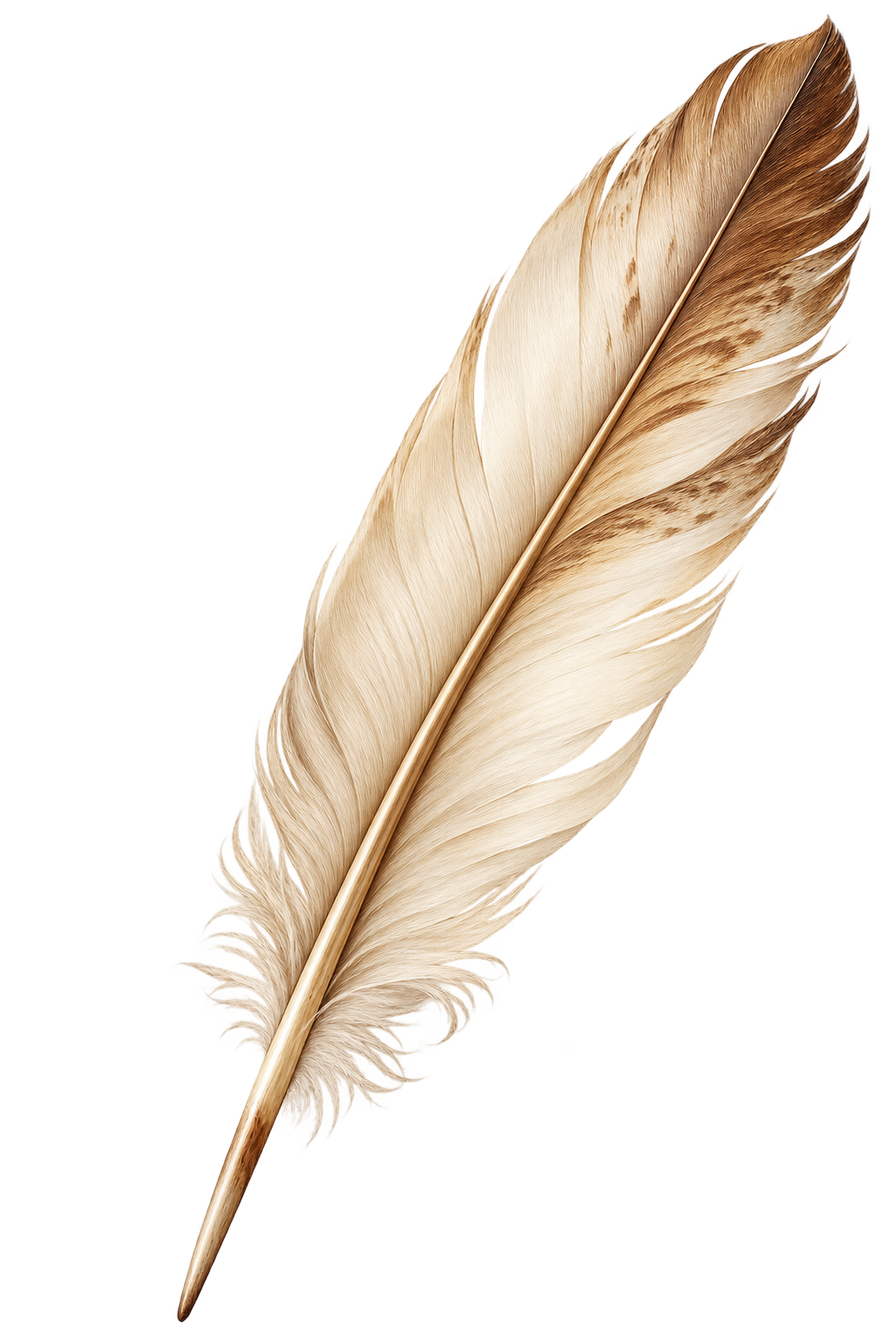
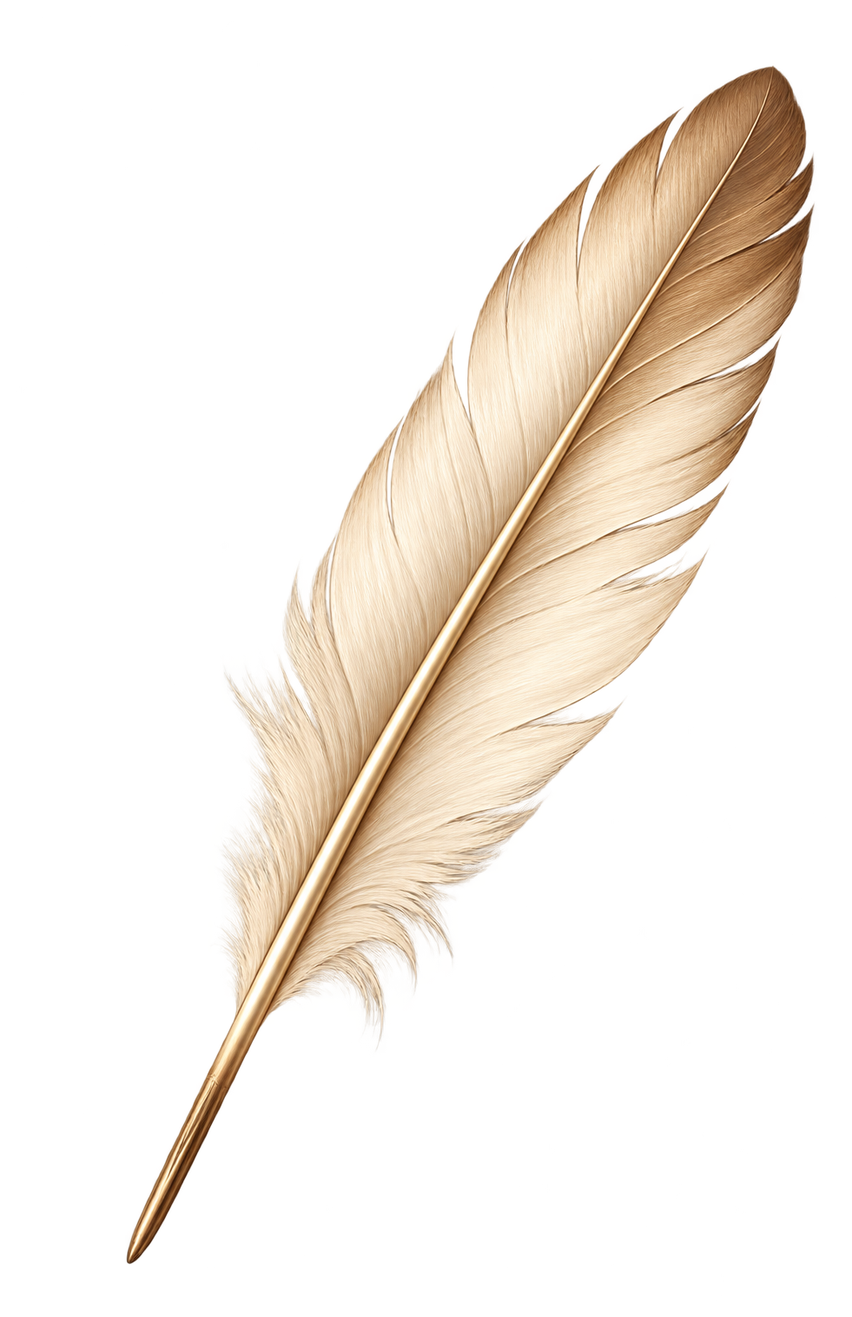
refine(reader): polish letter artwork and preserve close focus

Changed region(s): [[0.1529, 0.0, 0.9786, 0.9914]]

diff --git a/src/components/reader/letter.css b/src/components/reader/letter.css
@@ -1,4 +1,4 @@
-/* B-inspired prototype parameters. Size, typography, dimming, timing and directory
+/* User-supplied refinement assets; prototype parameters. Typography, dimming, timing and directory
    placement remain subject to product review; they are not new PRD constraints. */
 .scene-page--reading .scene-header,
 .scene-page--reading .scene-nav,
@@ -18,55 +18,60 @@
 .letter-dialog[open] { display: grid; place-items: center; }
 .letter-dialog::backdrop { background: rgb(3 9 17 / .6); animation: letter-dim var(--letter-open-duration) ease both; }
 .letter-dialog[data-phase="closing"]::backdrop { animation: letter-undim var(--letter-close-duration) ease both; }
-.letter-sheet { position: relative; width: min(680px, 78vw); height: min(900px, 86dvh); filter: drop-shadow(0 18px 34px #0009); }
-.letter-sheet::before { content: ""; position: absolute; inset: 48px; background: #f3dfbc; pointer-events: none; }
+.letter-sheet { position: relative; width: min(640px, 78vw); height: min(928px, 90dvh); filter: drop-shadow(0 18px 34px #0009); }
+.letter-sheet::before { content: ""; position: absolute; inset: 80px; background: #efdab4; pointer-events: none; }
 .letter-paper {
   position: absolute; inset: 0; user-select: none; pointer-events: none;
-  /* Nine-slice edges retain a narrow worn perimeter. The bounded paper adapts
-     only to the viewport; article length never changes its dimensions. */
-  border: 32px solid transparent;
-  border-image: url("/letter/aged-paper-v2.webp") 70 60 fill / 32px / 0 stretch;
+  /* 980×1447 source. Preserve the layered corners and use the same source fill
+     to avoid seams. Only the viewport changes this bounded frame, never prose. */
+  border: 100px solid transparent;
+  border-image: url("/letter/parchment.webp") 180 100 140 120 fill / 112px 62px 87px 75px / 0 stretch;
 }
-.letter-feather { position: absolute; top: 45px; right: -64px; width: 150px; height: 225px; object-fit: contain; pointer-events: none; user-select: none; z-index: 2; filter: sepia(.15); }
-.letter-close { position: absolute; z-index: 3; top: 17px; right: 19px; display: grid; place-items: center; width: 44px; height: 44px; padding: 0; border: none; background: none; color: #573b26; font: 32px/1 Georgia, serif; cursor: pointer; border-radius: 50%; }
+.letter-feather, .letter-postmark { position: absolute; object-fit: contain; pointer-events: none; user-select: none; z-index: 2; }
+.letter-feather { top: 58px; right: -76px; width: 154px; height: 238px; filter: drop-shadow(2px 4px 3px #50341f30); }
+/* Keep the visible ink beyond the text AND scrollbar when content scrolls. */
+.letter-postmark { top: 44px; right: 0; width: 108px; height: 108px; opacity: .83; }
+.letter-close { position: absolute; z-index: 3; top: 20px; right: 23px; display: grid; place-items: center; width: 44px; height: 44px; padding: 0; border: none; background: none; color: #573b26; font: 32px/1 Georgia, serif; cursor: pointer; border-radius: 50%; }
 .letter-close:hover { background: #895d2a18; }
 .letter-dialog button:focus-visible, .letter-dialog textarea:focus-visible, .letter-scroll:focus-visible { outline: 2px solid #7c4927; outline-offset: 3px; }
-.letter-scroll { position: absolute; inset: 52px 45px 34px 48px; overflow-y: auto; overflow-x: hidden; overscroll-behavior: contain; scrollbar-gutter: stable; scrollbar-width: thin; scrollbar-color: #99744070 transparent; padding: 0 16px 15px; }
-.letter-heading { margin-bottom: 25px; }
-.letter-demo-note { margin: 0 0 12px; color: #765638; font-family: "Microsoft YaHei", "PingFang SC", sans-serif; font-size: 10px; letter-spacing: .12em; }
-.letter-heading h2 { font-family: "STKaiti", "KaiTi", "Kaiti SC", "Songti SC", SimSun, serif; font-weight: 500; font-size: clamp(26px, 2.2vw, 34px); line-height: 1.5; letter-spacing: .09em; margin: 0 0 15px; padding-right: 15px; color: #3c281b; }
-.letter-meta { display: flex; flex-wrap: wrap; align-items: center; gap: 6px 20px; padding-top: 13px; border-top: 1px solid #8f602951; margin: 0; font-size: 11px; color: #795638; line-height: 1.7; }
-.letter-prose { font-size: 17px; line-height: 1.95; letter-spacing: .03em; overflow-wrap: anywhere; display: flow-root; }
-.letter-prose blockquote { position: relative; color: #855732; margin: 0 0 24px; padding: 0 13px 0 24px; font-family: "STKaiti", "KaiTi", "Kaiti SC", serif; font-size: 20px; line-height: 1.8; }
+.letter-scroll { position: absolute; inset: 58px 94px 42px 58px; overflow-y: auto; overflow-x: hidden; overscroll-behavior: contain; scrollbar-gutter: stable; scrollbar-width: thin; scrollbar-color: #99744070 transparent; padding: 0 12px 16px 8px; }
+.letter-heading { margin-bottom: 19px; }
+.letter-demo-note { margin: 7px 0 0; color: #856440; font-family: "Microsoft YaHei", "PingFang SC", sans-serif; font-size: 10px; letter-spacing: .05em; }
+.letter-heading h2 { font-family: "STKaiti", "KaiTi", "Kaiti SC", "Songti SC", SimSun, serif; font-weight: 500; font-size: clamp(27px, 2.2vw, 33px); line-height: 1.45; letter-spacing: .08em; margin: 0 0 10px; color: #3c281b; }
+.letter-meta { display: flex; flex-wrap: wrap; align-items: center; gap: 4px 18px; padding-top: 10px; border-top: 1px solid #8f602951; margin: 0; font-size: 11px; color: #795638; line-height: 1.7; }
+.letter-prose { font-size: 16px; line-height: 1.9; letter-spacing: .025em; overflow-wrap: anywhere; display: flow-root; }
+.letter-prose blockquote { position: relative; color: #855732; margin: 0 0 20px; padding: 0 4px 0 20px; font-family: "STKaiti", "KaiTi", "Kaiti SC", serif; font-size: 19px; line-height: 1.75; }
 .letter-prose blockquote::before { content: "“"; position: absolute; left: 0; top: -7px; color: #a3784d; font: 36px Georgia, serif; }
-.letter-prose p { margin: 0 0 16px; }
-.letter-photo { position: relative; float: left; width: 49%; margin: 12px 24px 18px 0; padding: 8px 8px 6px; background: #f1d9b3; border: 1px solid #b38b5666; box-shadow: 1px 3px 5px #54321c40; transform: rotate(-2deg); }
+.letter-prose p { margin: 0 0 12px; }
+.letter-photo { position: relative; float: left; width: 48%; margin: 6px 22px 14px 3px; padding: 7px 7px 6px; background: #f4e2c2; border: 1px solid #b38b5666; box-shadow: 1px 3px 5px #54321c40; transform: rotate(-2deg); }
 .letter-photo::before { content: ""; position: absolute; z-index: 1; left: -12px; top: -6px; width: 52px; height: 20px; transform: rotate(-30deg); background: #c7a16b66; }
 .letter-photo img { display: block; width: 100%; height: auto; aspect-ratio: 3 / 2; object-fit: cover; }
 .letter-photo figcaption { padding-top: 6px; font-family: "Microsoft YaHei", "PingFang SC", sans-serif; font-size: 9px; line-height: 1.6; letter-spacing: 0; color: #795b3f; }
 .letter-image-fallback { min-height: 120px; display: grid; place-items: center; padding: 12px; font-size: 13px; line-height: 1.7; background: #d8bc90; }
-.letter-prose .letter-signature { clear: both; padding-top: 16px; text-align: right; color: #89603b; font-family: "STKaiti", "KaiTi", "Kaiti SC", serif; font-size: 18px; }
-.letter-divider { display: flex; align-items: center; gap: 14px; color: #9b6e42; font-size: 12px; margin: 22px 0 14px; }
-.letter-divider::before, .letter-divider::after { content: ""; height: 1px; background: #a9814f5c; flex: 1; }
-.letter-reactions { display: flex; align-items: center; flex-wrap: wrap; gap: 10px 15px; margin-bottom: 27px; }
+.letter-prose .letter-signature { clear: both; padding: 17px 37px 0 0; text-align: right; color: #89603b; font-family: "STKaiti", "KaiTi", "Kaiti SC", serif; font-size: 17px; background: url("/letter/leaf-sprig.webp") right center / 28px auto no-repeat; }
+.letter-divider { height: 24px; margin: 15px 0 6px; background: url("/letter/divider-heart.webp") center / 100% 100% no-repeat; opacity: .8; }
+.letter-reactions { display: flex; align-items: center; flex-wrap: wrap; gap: 2px 14px; margin-bottom: 19px; }
 .letter-like { display: flex; align-items: center; gap: 9px; min-height: 44px; padding: 0 8px 0 0; border: 0; background: none; color: #713e2a; font: 13px "Microsoft YaHei", "PingFang SC", sans-serif; cursor: pointer; }
 .letter-like > span:first-child { font: 27px Georgia, serif; }
 .letter-like[aria-pressed="true"] { color: #9e362c; }
-.letter-reactions > span { color: #886a4b; font: 10px/1.6 "Microsoft YaHei", "PingFang SC", sans-serif; }
-.letter-comments h3 { margin: 0 0 10px; font: 500 24px/1.4 "STKaiti", "KaiTi", "Kaiti SC", SimSun, serif; letter-spacing: .15em; }
+.letter-reactions > span { color: #886a4b; font: 11px/1.6 "Microsoft YaHei", "PingFang SC", sans-serif; }
+.letter-comment-count { padding-left: 14px; border-left: 1px solid #a9814f5c; }
+.letter-reactions .letter-reaction-note { margin-left: auto; font-size: 10px; }
+.letter-comments h3 { margin: 0 0 8px; font: 500 23px/1.4 "STKaiti", "KaiTi", "Kaiti SC", SimSun, serif; letter-spacing: .15em; }
 .letter-comments h3::before { content: "❧"; margin-right: 12px; color: #996c3d; }
-.letter-comments > p { margin: 0 0 15px; font-size: 12px; line-height: 1.9; color: #80603f; }
-.letter-comments textarea { display: block; width: 100%; min-height: 100px; max-height: 230px; resize: vertical; padding: 13px; color: #49311f; background: #fff3d72b; border: 1px solid #99724599; border-radius: 3px; font: 16px/1.8 "Songti SC", SimSun, serif; }
+.letter-comments > p { margin: 0 0 12px; font-size: 11px; line-height: 1.85; color: #80603f; }
+.letter-comments textarea { display: block; width: 100%; min-height: 88px; max-height: 230px; resize: vertical; padding: 11px 13px; color: #49311f; background: #fff3d71a; border: 1px solid #99724580; border-radius: 3px; box-shadow: inset 0 1px 4px #9463350a; font: 16px/1.8 "Songti SC", SimSun, serif; }
 .letter-comments textarea::placeholder { color: #8f7457; opacity: 1; }
 .letter-comment-actions { display: flex; flex-wrap: wrap; align-items: center; justify-content: space-between; gap: 10px; margin-top: 10px; }
 .letter-comment-actions > span { font: 10px/1.8 "Microsoft YaHei", "PingFang SC", sans-serif; color: #80603f; }
-.letter-comment-actions button { border: 1px solid #805231; border-radius: 3px; background: #8a5d39; color: #fff0d7; min-height: 44px; padding: 10px 14px; font: 12px "Microsoft YaHei", "PingFang SC", sans-serif; cursor: pointer; }
+.letter-comment-actions button { border: 1px solid #80523188; border-radius: 3px; background: #8a5d39; color: #fff0d7; min-height: 44px; padding: 9px 13px; font: 12px "Microsoft YaHei", "PingFang SC", sans-serif; cursor: pointer; }
 .letter-comment-actions button:disabled { opacity: .55; cursor: default; }
 .letter-comment-preview:empty { display: none; }
-.letter-comment-preview { margin-top: 22px; padding: 14px; background: #fff0cd55; border-left: 2px solid #a77a44; }
+.letter-comment-preview { margin-top: 20px; padding: 12px 0 12px 14px; border-left: 2px solid #a77a4466; }
 .letter-comment-preview h4, .letter-comment-preview small { font: 11px/1.8 "Microsoft YaHei", "PingFang SC", sans-serif; color: #805c38; margin: 0; }
 .letter-comment-preview p { white-space: pre-wrap; overflow-wrap: anywhere; font-size: 15px; line-height: 1.9; margin: 10px 0; }
-.letter-sample-comment { margin-top: 28px; border-top: 1px solid #a9814f40; padding-top: 16px; font-size: 13px; line-height: 1.8; }
+.letter-sample-comment { display: flex; align-items: flex-start; gap: 12px; margin-top: 20px; border-block: 1px solid #a9814f40; padding-block: 15px 9px; font-size: 13px; line-height: 1.8; }
+.letter-sample-comment .letter-comment-avatar { display: grid; place-items: center; flex: 0 0 32px; height: 32px; margin: 3px 0 0; border-radius: 50%; color: #ead7b3; background: #625649; font: 16px "STKaiti", "KaiTi", serif; }
 .letter-sample-comment p { margin: 0 0 8px; }
 .letter-sample-comment strong { font-weight: 500; }
 .letter-sample-comment span { font-size: 10px; margin-left: 12px; color: #94714d; }
@@ -99,24 +104,28 @@
 }
 @media (max-width: 800px) {
   .letter-sheet { width: calc(100vw - 24px); height: min(960px, calc(100dvh - 36px)); }
-  .letter-scroll { inset: 48px 23px 29px 23px; padding: 0 8px 16px; }
+  .letter-sheet::before { inset: 44px; }
+  .letter-paper { border-width: 55px; border-image-width: 68px 30px 53px 38px; }
+  .letter-scroll { inset: 76px 23px 34px 26px; padding: 0 9px 16px; }
   .letter-close { top: 14px; right: 12px; }
-  .letter-feather { width: 48px; height: 100px; right: -8px; top: 65px; opacity: .8; }
-  .letter-heading h2 { font-size: 27px; padding-right: 27px; }
-  .letter-heading { margin-bottom: 22px; }
+  .letter-feather { width: 36px; height: 60px; right: 55px; top: 12px; opacity: .85; }
+  .letter-postmark { width: 78px; height: 78px; right: 79px; top: -3px; opacity: .8; }
+  .letter-heading h2 { font-size: 26px; letter-spacing: .06em; }
+  .letter-heading { margin-bottom: 18px; }
   .letter-prose { font-size: 16px; line-height: 2; letter-spacing: .02em; }
-  .letter-prose blockquote { font-size: 19px; padding-right: 13px; }
-  .letter-photo { float: none; width: 88%; margin: 22px auto 25px; }
+  .letter-prose blockquote { font-size: 18px; padding-right: 0; }
+  .letter-photo { float: none; width: 90%; margin: 20px auto 24px; }
   .letter-meta { gap: 4px 12px; font-size: 10px; }
   .letter-reactions { gap: 2px 12px; }
+  .letter-reactions .letter-reaction-note { width: 100%; margin-left: 0; }
   .letter-comments h3 { font-size: 23px; }
 }
 @media (max-height: 540px) {
   .letter-sheet { height: calc(100dvh - 20px); }
-  .letter-scroll { inset-block: 35px 24px; }
-  .letter-feather { height: 100px; width: 50px; top: 45px; right: -8px; }
+  .letter-scroll { inset-block: 52px 24px; }
+  .letter-feather { height: 40px; width: 26px; top: 8px; right: 58px; }
+  .letter-postmark { width: 58px; height: 58px; top: -4px; right: 83px; }
   .letter-close { top: 7px; right: 12px; }
-  .letter-heading h2 { padding-right: 26px; }
 }
 @media (prefers-reduced-motion: reduce) {
   .letter-dialog *, .letter-dialog::backdrop { animation: none !important; transition: none !important; }

diff --git a/src/components/reader/feather-letter.tsx b/src/components/reader/feather-letter.tsx
@@ -129,35 +129,37 @@ export function FeatherLetter({ story, onClosed }: { story: DemoStory; onClosed:
       <div className="letter-sheet">
         <div className="letter-paper" aria-hidden="true" />
         <img className="letter-feather" src="/letter/quill.webp" alt="" aria-hidden="true" />
+        <img className="letter-postmark" src="/letter/butterfly-postmark.webp" alt="" aria-hidden="true" />
         <button ref={closeRef} type="button" className="letter-close" aria-label="关闭羽毛信"
           disabled={phase !== "reading" || confirming} onClick={requestClose}>×</button>
         <div className="letter-scroll" tabIndex={0} aria-label="信纸阅读内容" inert={phase !== "reading" || confirming}>
           <header className="letter-heading">
-            <p id="letter-demo-note" className="letter-demo-note">合成演示 · 非真实回忆</p>
             <h2 id="letter-title">{story.title}</h2>
             <p className="letter-meta"><span>{story.date}</span><span>MQ 演示书信</span></p>
+            <p id="letter-demo-note" className="letter-demo-note">合成演示 · 非真实回忆</p>
           </header>
           <article className="letter-prose" aria-label={story.title}>
             <blockquote>{story.introduction}</blockquote>
-            {story.paragraphs.slice(0, 2).map((paragraph, index) => <p key={index}>{paragraph}</p>)}
+            <p>{story.paragraphs[0]}</p>
             <figure className="letter-photo">
               {imageFailed ? <div className="letter-image-fallback" role="status">演示配图暂时无法显示，正文仍可继续阅读。</div> :
                 <img src={story.image.src} alt={story.image.alt} width="768" height="512" onError={() => setImageFailed(true)} />}
               <figcaption>{story.image.caption}</figcaption>
             </figure>
-            {story.paragraphs.slice(2).map((paragraph, index) => <p key={index}>{paragraph}</p>)}
+            {story.paragraphs.slice(1).map((paragraph, index) => <p key={index}>{paragraph}</p>)}
             <p className="letter-signature">{story.closing}</p>
           </article>
-          <div className="letter-divider" aria-hidden="true"><span>♥</span></div>
+          <div className="letter-divider" aria-hidden="true" />
           <div className="letter-reactions">
             <button type="button" className="letter-like" aria-pressed={liked} onClick={() => setLiked(!liked)}>
               <span aria-hidden="true">{liked ? "♥" : "♡"}</span>演示点赞 <span>{liked ? 1 : 0}</span>
             </button>
-            <span>仅本次阅读有效，不会发送</span>
+            <span className="letter-comment-count">留言示例 1</span>
+            <span className="letter-reaction-note">仅本次阅读有效，不会发送</span>
           </div>
           <section className="letter-comments" aria-labelledby="letter-comments-title">
             <h3 id="letter-comments-title">留言</h3>
-            <p id="letter-comment-help">写下此刻的想法。此处仅供演示，内容不会发送、公开或保存。</p>
+            <p id="letter-comment-help">写下此刻的想法。仅供演示，不会发送、公开或保存；真实留言审核功能尚未接入。</p>
             <form onSubmit={(event) => { event.preventDefault(); if (draft.trim()) setPreview(draft); }}>
               <label className="sr-only" htmlFor="letter-comment">演示留言</label>
               <textarea id="letter-comment" value={draft} rows={3} maxLength={500}
@@ -172,8 +174,11 @@ export function FeatherLetter({ story, onClosed }: { story: DemoStory; onClosed:
               {preview !== null ? <><h4>你的演示预览 · 尚未发送</h4><p>{preview}</p><small>输入仍保留，关闭时会询问是否放弃。</small></> : null}
             </div>
             <div className="letter-sample-comment">
-              <p><strong>演示访客</strong><span>合成留言示例</span></p>
-              <p>愿每一个平凡的夜晚，都有值得收藏的微光。</p>
+              <span className="letter-comment-avatar" aria-hidden="true">星</span>
+              <div>
+                <p><strong>演示访客</strong><span>合成留言示例</span></p>
+                <p>愿每一个平凡的夜晚，都有值得收藏的微光。</p>
+              </div>
             </div>
           </section>
           <p className="letter-end">这一页的故事，暂且写到这里。</p>

diff --git a/src/components/scene/scene-page.tsx b/src/components/scene/scene-page.tsx
@@ -1,7 +1,7 @@
 "use client";
 
 import Link from "next/link";
-import { useCallback, useRef, useState } from "react";
+import { useCallback, useEffect, useRef, useState } from "react";
 import { FeatherLetter } from "../reader/feather-letter";
 import { demoStories, type DemoStory } from "./demo-stories";
 import { Landscape } from "./landscape";
@@ -57,14 +57,18 @@ export function ScenePage({ section }: { section: Section }) {
   const closeStory = useCallback(() => {
     setStory(null);
     readerOpen.current = false;
-    requestAnimationFrame(() => {
-      const trigger = readerTrigger.current;
-      // A resize can hide the mobile directory while the letter is open.
-      const target = trigger?.isConnected && trigger.getClientRects().length
-        ? trigger : document.querySelector<HTMLButtonElement>(".story-entry--star");
-      target?.focus({ preventScroll: true });
-    });
   }, []);
+
+  useEffect(() => {
+    if (story || !readerTrigger.current) return;
+    // React must commit the restored visibility/disabled state before focus.
+    // A requestAnimationFrame from closeStory can run before that commit.
+    const trigger = readerTrigger.current;
+    const target = trigger.isConnected && trigger.getClientRects().length
+      ? trigger : document.querySelector<HTMLButtonElement>(".story-entry--star");
+    target?.focus({ preventScroll: true });
+    readerTrigger.current = null;
+  }, [story]);
 
   return (
     <div className={`scene-page${isHome ? "" : " scene-page--construction"}${story ? " scene-page--reading" : ""}`}>

diff --git a/public/letter/README.md b/public/letter/README.md
@@ -1,34 +1,32 @@
 # 羽毛信独立装饰素材
 
-本目录服务于 Issue #4 的交互原型。素材通过内置 `image_gen` 工具生成，参考已确认 B 的暖米黄色、自然旧纸、磨损边缘和克制羽毛方向；不是 B 的逐像素切片，也没有复制其中的文字或 UI。最终视觉仍待产品负责人和独立开发者评审。
+本目录用于 Issue #4 / Draft PR #7。当前素材来自产品负责人于 2026-10-22 提供的 **《MQ 羽毛信视觉精修交接包 v1.0》**（附件名 `MQ羽毛信视觉.zip`）。包内说明这些是独立生成的 RGBA 图层，并非目标截图的原生 PSD/Figma 拆层，不能保证像素级还原。此前阅读器主体与交互基本认可，本轮美术精修仍等待产品负责人和另一位开发者验收。
 
-| 文件 | 像素 / 编码 | 用途 |
-|---|---|---|
-| `aged-paper-v2.webp` | 1024×1536，带 alpha 的无损 WebP，1,583,956 字节 | 无字纸张；CSS 九片边缘保持窄磨损边，同一有界装饰层承载整个阅读流 |
-| `quill.webp` | 1024×1536，带 alpha 的无损 WebP，801,682 字节 | 独立羽毛装饰，不拦截交互；小屏缩小并放到文字安全区外 |
+## 运行时文件及来源
 
-两项合计约 2.39 MB，随阅读层出现加载；首页静态场景素材未替换。原 PNG 保留在本机图像生成目录，不重复提交。仅使用 Sharp 做无损格式转换，没有插值增大分辨率、程序抠图或人为重绘。纸张最初大折角侵入文字安全区，因此通过第二次内置图像编辑去除；最终版没有跨正文折痕。CSS 依视口调整纸面外框，文章长度只改变内容滚动高度，不改变纸张尺寸。
+下列文件从交接包同名 WebP **逐字节复制，仅重命名**，未重绘、抠图、放大或再次有损编码。源文件路径均相对于包内 `MQ_羽毛信视觉精修交接包_v1.0/`。
 
-文章配图复用 `/scene/night-sky.webp`，在 UI 的 alt/图注中明确标为合成演示，不是真实旅行照片。点赞、留言及正文均为可访问的 DOM，不在素材中烘焙。
+| 网站文件 | 交接包源路径 | 像素 / 大小 | 用途 |
+|---|---|---|---|
+| `parchment.webp` | `assets/letter/parchment-trimmed.webp` | 980×1447 / 1,645,242 B | 有界信纸九宫格及同源中心纹理 |
+| `quill.webp` | `assets/letter/quill-trimmed.webp` | 981×1517 / 587,154 B | 桌面右侧上段羽毛；手机缩小放在顶部安全区 |
+| `butterfly-postmark.webp` | `assets/letter/butterfly-postmark-trimmed.webp` | 1254×1251 / 724,818 B | 顶部右侧邮票与邮戳，不占正文或关闭按钮热区 |
+| `divider-heart.webp` | `assets/ornaments/divider-heart.webp` | 945×84 / 20,104 B | 正文与轻量互动行之间的细分隔 |
+| `leaf-sprig.webp` | `assets/ornaments/leaf-sprig-small.webp` | 330×402 / 69,242 B | 书信收尾处的小叶饰，不再叠加页脚藤蔓等素材 |
 
-与 B 的差异：纸张纤维、破边和羽毛为新制变体；没有复制邮戳/蝴蝶印章、概念图文字、照片和数字；中文字体采用本机宋体/楷体回退。移动端目录、纸张尺寸、字体及动画节奏仍待评审。参考图片的背景/UI 痕迹不覆盖 PRD：读信继续使用 A 的已实现 MQ 场景并隐藏导航和普通账号入口。
+全部为保留 alpha 的无损 WebP，合计 **3,046,560 B（约 3.05 MB）**。纸张、邮戳和装饰 alpha 范围 0–255，羽毛为 0–254。三个主体 WebP 与包内同名 PNG 的 alpha 逐像素相同，alpha>0 区域的 RGB 也一致。完全透明像素中存在不可见颜色，正常浏览器合成不会形成彩色边块；不需要为查看器异常重制素材。
 
-## 实际生成提示词
+原 ZIP、PNG 重复件、完整装饰集、目标/现状截图及临时浏览器证据均留在仓库外。旧 `aged-paper-v2.webp` 已由 `parchment.webp` 替换并移除；先前内置 imagegen 素材及提示词可在提交 `e65d115` 中追溯，本轮没有再次生成美术或增加依赖。
 
-### 纸张初稿
+## 布局与数据边界
 
-```text
-Create a production-ready web decorative asset: one blank nineteenth-century European romantic letter paper, straight-on flat orthographic, portrait 2:3 proportions, filling almost all of the canvas with a narrow transparent margin. Warm pale creamy beige center (#f5e1b9), finely detailed natural handmade paper fibers and very delicate mottling; richly convincing frayed irregular deckle edges, worn brown edges and gently lifted/torn upper-left corner. Keep the center 80% very quiet and legible for Chinese text that will be rendered separately. Aged elegant love letter, not a treasure map, not burnt black. Absolutely NO text, NO handwriting, NO symbols, NO stamps, NO feathers, NO photographs, NO buttons, NO folds across the paper, NO scroll rods, NO background scene. True transparent alpha around the entire paper. Very high quality tactile realistic illustration, softly lit. The only object is the sheet of blank paper.
-```
+- `letter.css` 对纸张使用九宫格：源切片 top/right/bottom/left 为 `180/100/140/120` 像素，中心使用同源 `fill` 避免拼接色差；边缘显示宽度按桌面/手机单独调整。参数是本轮原型试验值。
+- 纸张尺寸只依视口变化；短文和长文使用同样的有界外框。文章、图片、点赞、留言共用一条 `.letter-scroll` 阅读流，不以长文章拉长纸纹。
+- 羽毛、邮戳与纸边属于不接收指针的装饰层。桌面邮戳的可见墨迹留在正文/滚动条外；窄屏移到标题上方，不压缩中文正文列宽。关闭热区维持 44×44px。
+- 文章配图继续复用 `/scene/night-sky.webp`，alt/图注明确标注合成演示。正文、照片、评论与控件均为真实 DOM，点赞和留言预览仅存在于本次阅读状态，不向服务器发送。
 
-### 纸张定向修正
+## 与目标图的保留差异
 
-```text
-Edit only the upper-left corner of this blank letter-paper asset. Remove the large triangular folded / peeled-back corner completely. Continue the same quiet pale beige paper surface right up into that upper-left area, with only a narrow irregular worn deckle edge consistent with the other three sides. Preserve the exact warm colors, subtle fine fiber texture, portrait proportions, natural narrow worn brown perimeter and transparent alpha background. No new elements, no text, no stamps, no feather. The paper must have no large folds anywhere; its central writing area including the top left must remain flat and legible.
-```
+独立纸张的褶皱、纤维和羽毛/邮戳细节并非目标原图的精确切片。保留现有故事 ID、完整演示正文和合成配图，不复制图中的照片、姓名、日期或点赞数字；长文和留言需要内部滚动，不能为了首屏容纳全部内容而缩小文字。中文使用系统宋体/楷体回退，纸张尺寸、字体、目录样式及动效仍待产品评审。
 
-### 独立羽毛
-
-```text
-A single delicate antique writing feather, an isolated quill web decoration. The feather is slender with beautifully detailed warm ivory and muted honey-brown barbs, gently curved shaft pointing down-left and feather tip toward upper-right, around 25 degrees from vertical. Straight-on realistic tactile illustration, soft warm light, nineteenth-century romantic letter aesthetic. Feather only, NOT an inkwell, no paper, no text, no other objects, no frame, no cast-shadow rectangle. Fully transparent alpha background around the feather, clean natural fine edges. Vertical asset, fit the entire feather with very small transparent padding, restrained sepia colors.
-```
+目标图保留的导航与普通账号入口不符合最终 PRD。本实现阅读时隐藏这些入口，并沿用已验收 A 场景作为变暗背景。技术验证不代表视觉验收。

diff --git a/README.md b/README.md
@@ -75,6 +75,6 @@ npm run check
 
 点赞只演示本次阅读的本地状态；「预览留言（不发送）」保留草稿并显示原型预览，不发送、公开或持久化评论，也不声称真实提交成功。关闭阅读器会丢弃这些临时状态。本轮不实现认证、真实点赞/留言服务、真实分享 URL 或公开权限控制。
 
-当前视觉试验采用暖米黄旧纸、深棕墨色、独立羽毛和中文宋体/楷体回退；桌面信纸宽上限 680px、高度上限 900px 且不超过视口 86%，展开 1000ms、关闭 400ms、背景暗化 60%。移动端另有视口适配。这些数值、字体、目录样式和重制素材均待产品视觉验收，不是最终设计要求。纸纹不随文章长度增长，未将 B 的文字效果图或邮戳直接用作可操作界面。
+当前视觉精修使用产品负责人提供的《MQ 羽毛信视觉精修交接包 v1.0》中的独立透明旧纸、羽毛、蝴蝶邮戳及少量细分隔，来源与用途见 [素材说明](public/letter/README.md)。标题、元信息、图片混排及同纸留言区均为真实 DOM。中文采用宋体/楷体回退；桌面信纸宽上限 640px、高度上限 928px 且不超过视口 90%，展开 1000ms、关闭 400ms、背景暗化 60%。移动端缩小装饰并保留正文宽度。这些数值、字体和目录样式均待产品视觉验收，不是最终设计要求。纸纹不随文章长度增长，未使用整张目标参考截图作为网页背景。
 
 Issue #3 的四项读信依赖需结合本轮真实浏览器测试与人工评审共同核对；当前开发分支不自动关闭 Issue #3 / #4。工程检查通过不代表阅读器视觉与交互验收通过，未完成的真实业务与课程验收仍保留后续阶段。
